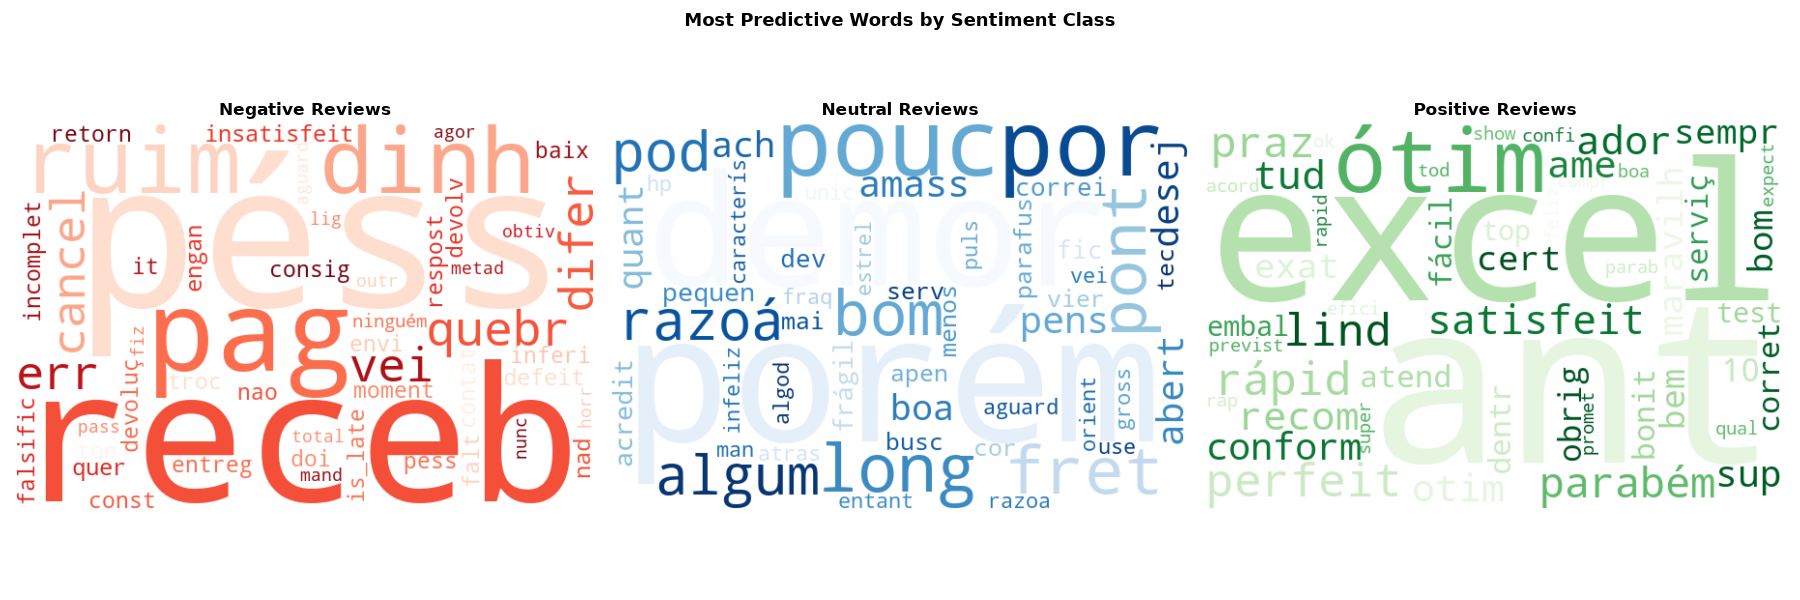
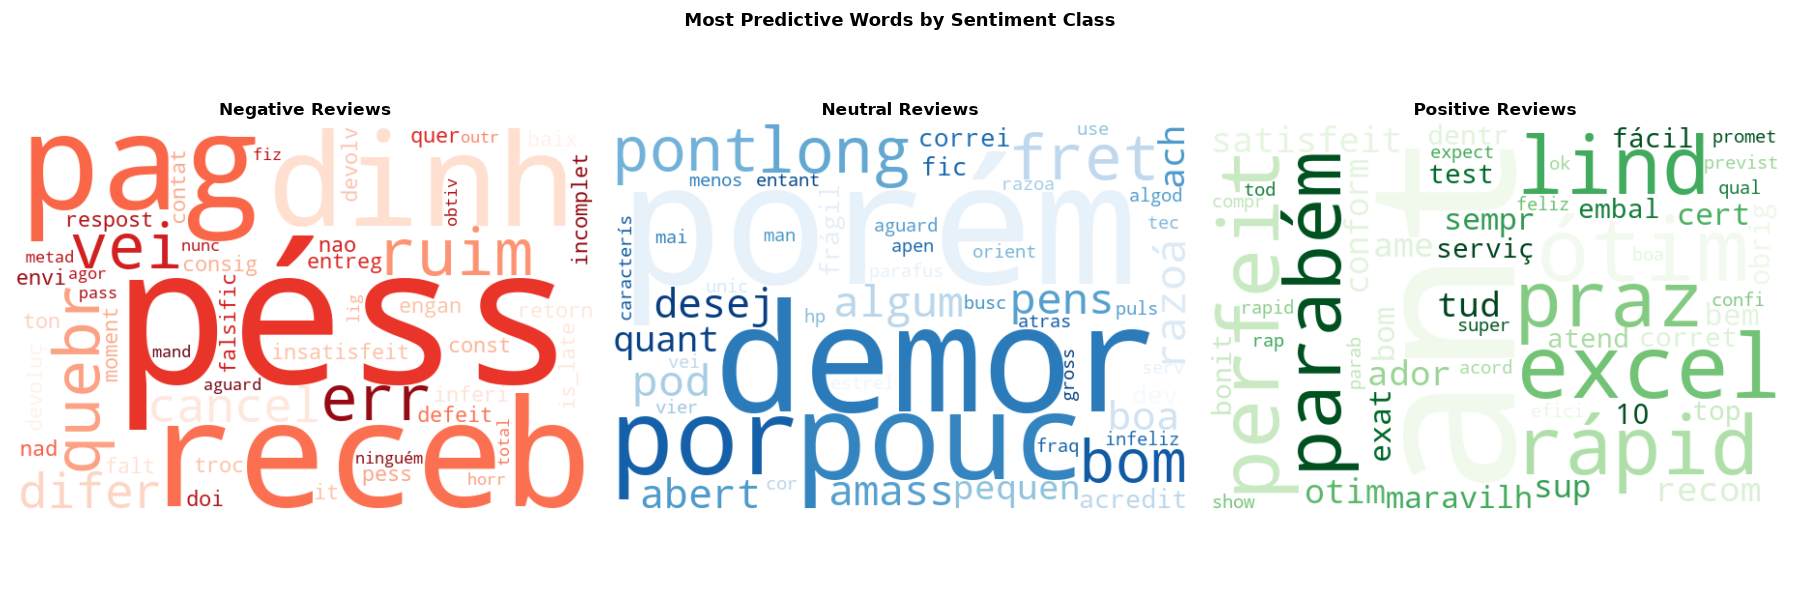
Fix Streamlit RAG chatbot

Changed region(s): [[0.0, 0.21, 0.9956, 0.87]]

diff --git a/app.py b/app.py
@@ -53,55 +53,71 @@ with tab1:
     st.pyplot(fig)
 
 with st.sidebar:
-    st.subheader("Ask the Olist Assistant")
-    
-    # Sample Questions as Buttons
-    st.caption("Try asking:")
-    
-    if st.button("What is the late delivery rate?", use_container_width=True):
-        prompt = "What is the late delivery rate?"
-    
-    if st.button("Show top 5 products by revenue", use_container_width=True):
-        prompt = "Show top 5 products by revenue"
-    
-    if st.button("Which state has the worst SLA?", use_container_width=True):
-        prompt = "Which state has the worst SLA breach rate?"
-    
-    if st.button("How is customer sentiment overall?", use_container_width=True):
-        prompt = "How is customer sentiment overall?"
-    
-    if st.button("What are the customer segments?", use_container_width=True):
-        prompt = "What are the customer segments and their characteristics?"
-    
-    if st.button("What is the average delivery time?", use_container_width=True):
-        prompt = "What is the average delivery time in days?"
-    
-    st.divider()
-    
-    # Chat history
+    st.subheader("🤖 Ask the Olist Assistant")
+
     if "messages" not in st.session_state:
         st.session_state.messages = []
-    
-    for msg in st.session_state.messages[-10:]:
-        with st.chat_message(msg["role"]):
-            st.write(msg["content"])
-    
+
+    # Sample Questions
+    st.caption("Try asking:")
+
+    sample_questions = [
+        "What is the late delivery rate?",
+        "Show top 5 products by revenue",
+        "Which state has the worst SLA breach rate?",
+        "How is customer sentiment overall?",
+        "What are the customer segments and their characteristics?",
+        "What is the average delivery time in days?"
+    ]
+
+    selected_prompt = None
+
+    for sample_question in sample_questions:
+        if st.button(sample_question, use_container_width=True):
+            selected_prompt = sample_question
+
+    st.divider()
+
+    # Chat history
+    for message in st.session_state.messages[-10:]:
+        with st.chat_message(message["role"]):
+            st.markdown(message["content"])
+
     # Chat input
-    if prompt := st.chat_input("Ask me anything..."):
-        st.session_state.messages.append({"role": "user", "content": prompt})
+    typed_prompt = st.chat_input("Ask me anything...")
+
+    if typed_prompt:
+        selected_prompt = typed_prompt
+
+    # Process question
+    if selected_prompt:
+
         with st.chat_message("user"):
-            st.write(prompt)
-        
+            st.markdown(selected_prompt)
+
         with st.chat_message("assistant"):
             with st.spinner("Thinking..."):
                 try:
-                    answer = ask_assistant(prompt, collection)
-                except Exception as e:
-                    answer = f"Error: {str(e)}"
-            st.write(answer)
-        
-        st.session_state.messages.append({"role": "assistant", "content": answer})
-        st.rerun()
+                    answer = ask_assistant(
+                        selected_prompt,
+                        collection
+                    )
+                except Exception:
+                    logger.exception("RAG assistant failed")
+                    answer = "Sorry, I couldn't process that question."
+
+            st.markdown(answer)
+
+        # Save conversation
+        st.session_state.messages.append({
+            "role": "user",
+            "content": selected_prompt
+        })
+
+        st.session_state.messages.append({
+            "role": "assistant",
+            "content": answer
+        })
 with tab2:
     st.header("Sentiment Analysis")
     fig1 = plot_nlp_dashboard(nlp_df, tfidf_vectorizer)
